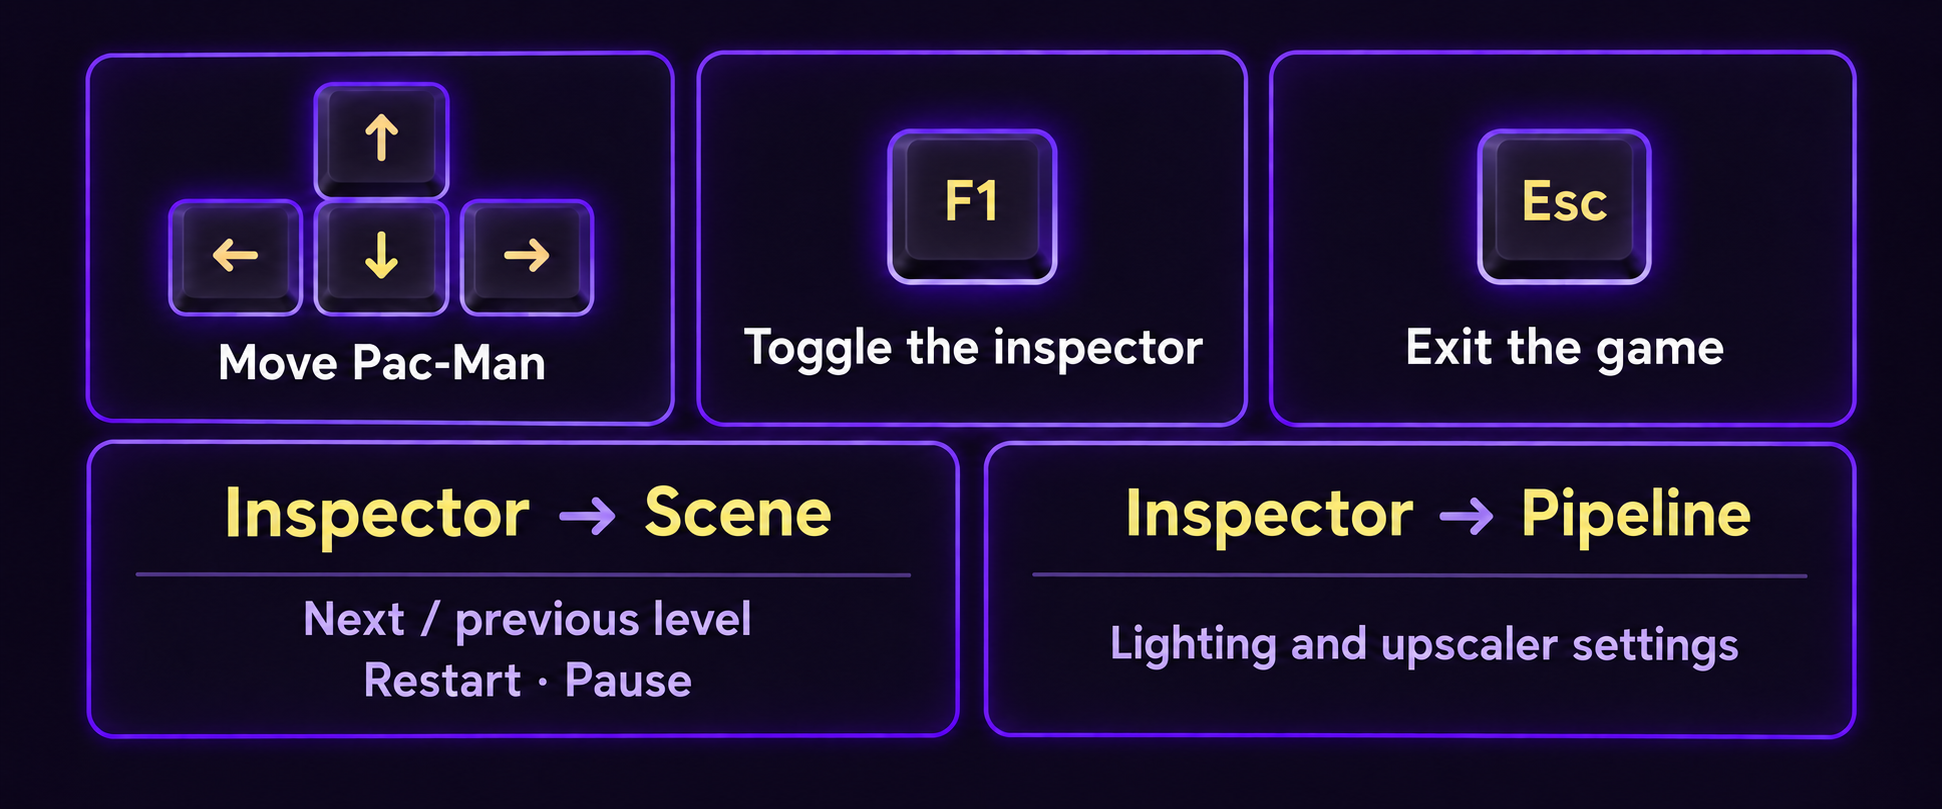
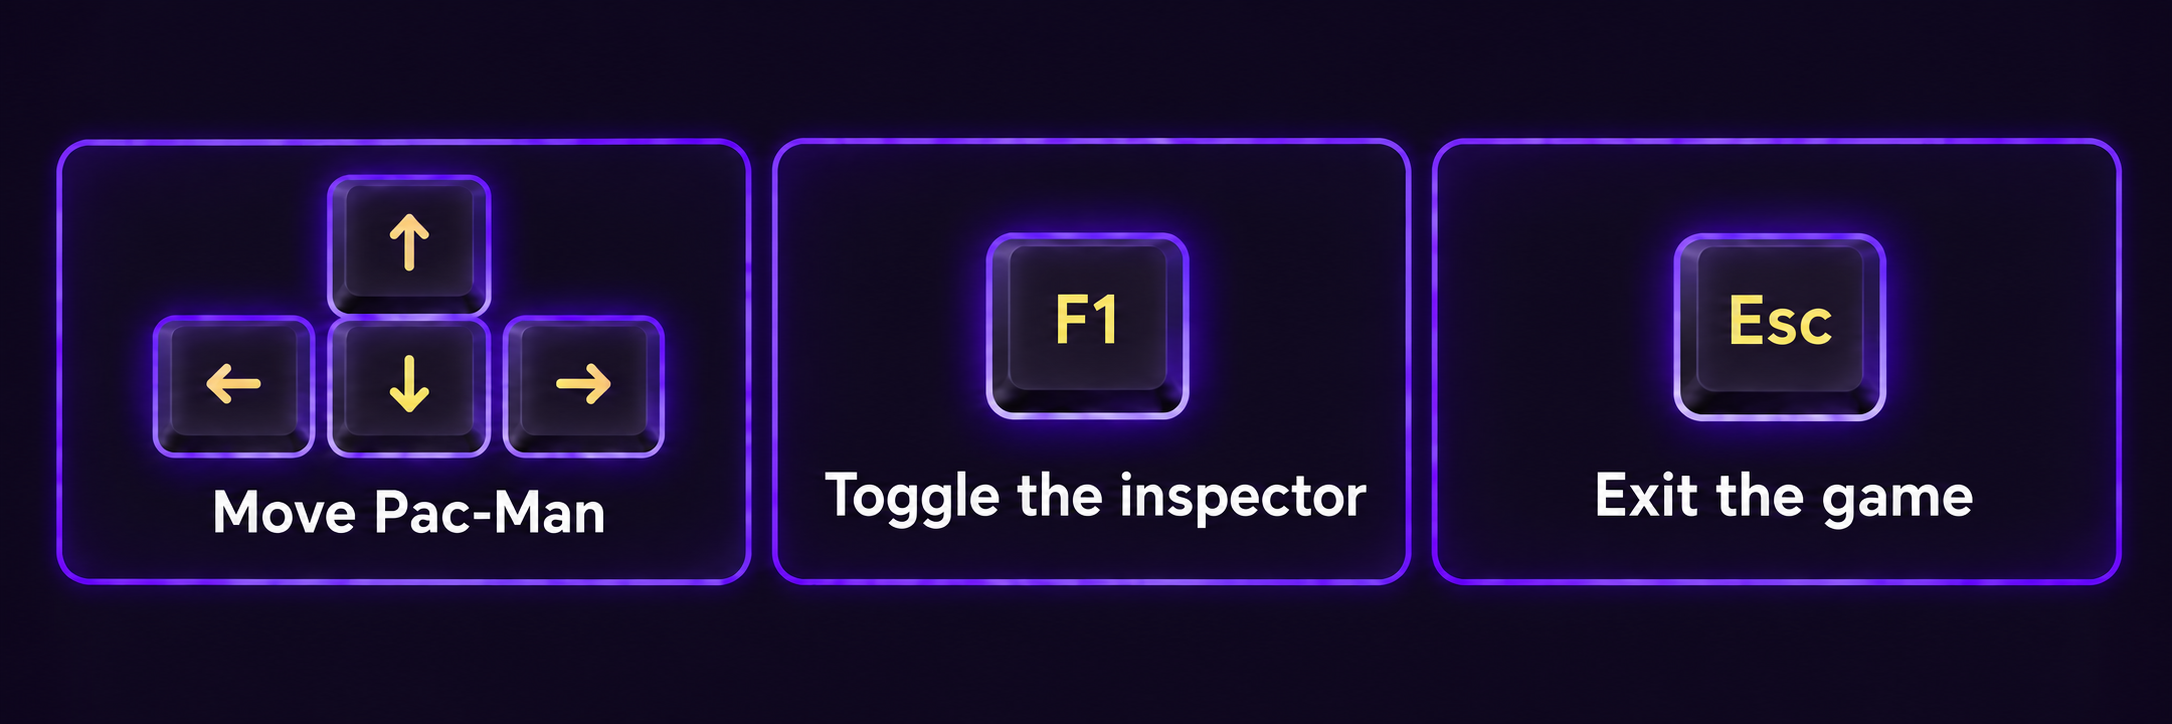
Simplify controls graphic to movement, inspector toggle, and exit

diff --git a/README.md b/README.md
@@ -27,8 +27,6 @@ Requires Linux x64, Vulkan graphics drivers, and a graphical desktop. Keep the b
 
 ## Controls
 
-[![Controls: arrow keys move Pac-Man; F1 toggles the inspector; Esc exits; Inspector → Scene changes levels, restarts, and pauses; Inspector → Pipeline changes lighting and upscaler settings.](docs/controls.png)](docs/controls.png)
-
-For smoother performance, choose **Balanced** or **Performance** in the upscaler's **Quality** menu.
+[![Controls: arrow keys move Pac-Man; F1 toggles the inspector; Esc exits the game.](docs/controls.png)](docs/controls.png)
 
 [Build and test instructions](BUILD.md). Built with [Radiant](https://github.com/lestercorderomurillo/radiant-game-engine) and MonoGame DesktopVK.
